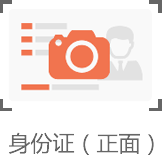
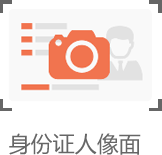
修改注册身份证图片和忘记密码身份证转成大写

Changed region(s): [[0.0309, 0.8516, 0.8642, 1.0], [0.8951, 0.8774, 0.9568, 1.0], [0.8951, 0.8516, 0.9259, 0.8774]]

diff --git a/traffic-police/src/views/login/findPassword.vue b/traffic-police/src/views/login/findPassword.vue
@@ -3,7 +3,7 @@
       <div class="logo"></div>
       <div class="login-form">
         <input v-model:value="userName" type="text" placeholder="请输入您的姓名">
-        <input class="identityCard" v-model:value="identityCard" type="text" placeholder="请输入您的身份证号码">
+        <input class="identityCard" v-model:value="identityCard" style="text-transform:uppercase;" type="text" placeholder="请输入您的身份证号码">
         <input class="mobilephone" v-model:value="mobilephone" type="tel" placeholder="请输入手机号">
         <div class="validateCode">
           <input class="inpValidateCode" v-model:value="validateCode" type="tel" placeholder="输入验证码">

diff --git a/traffic-police/src/views/starUser/child/userUpload.vue b/traffic-police/src/views/starUser/child/userUpload.vue
@@ -109,7 +109,7 @@ export default {
       }
     }
     .starUser-upload-left {
-      background:#efeff4 url('../../../images/ownerIdImg1.png') center no-repeat;
+      background:#efeff4 url('../../../images/ownerIdImg11.png') center no-repeat;
       background-size: 90%;
       border:none;
     }
@@ -124,7 +124,7 @@ export default {
       border:none;
     }
     .starUser-upload-four{
-      background:#efeff4 url('../../../images/userIdImg3.png') center no-repeat;
+      background:#efeff4 url('../../../images/userIdImg11.png') center no-repeat;
       background-size: 90%;
       border:none;
       margin-bottom:20px;
